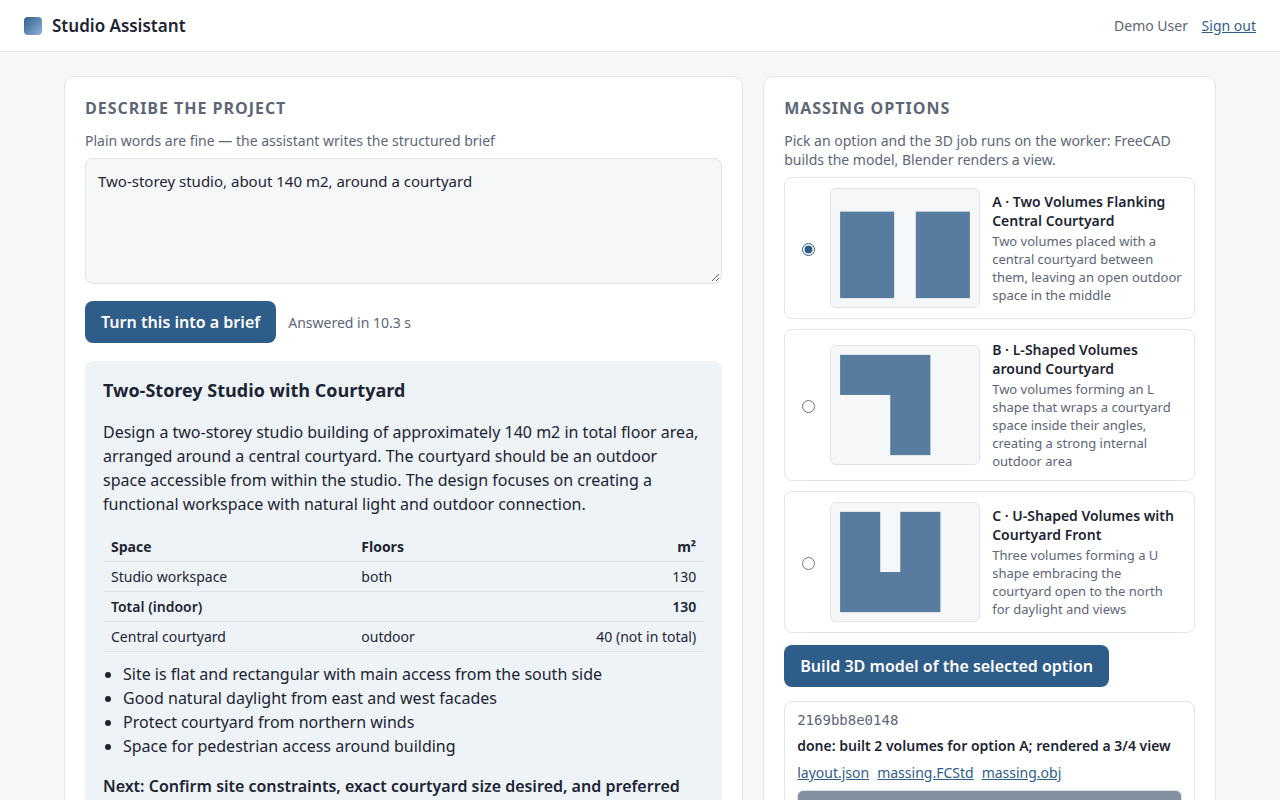
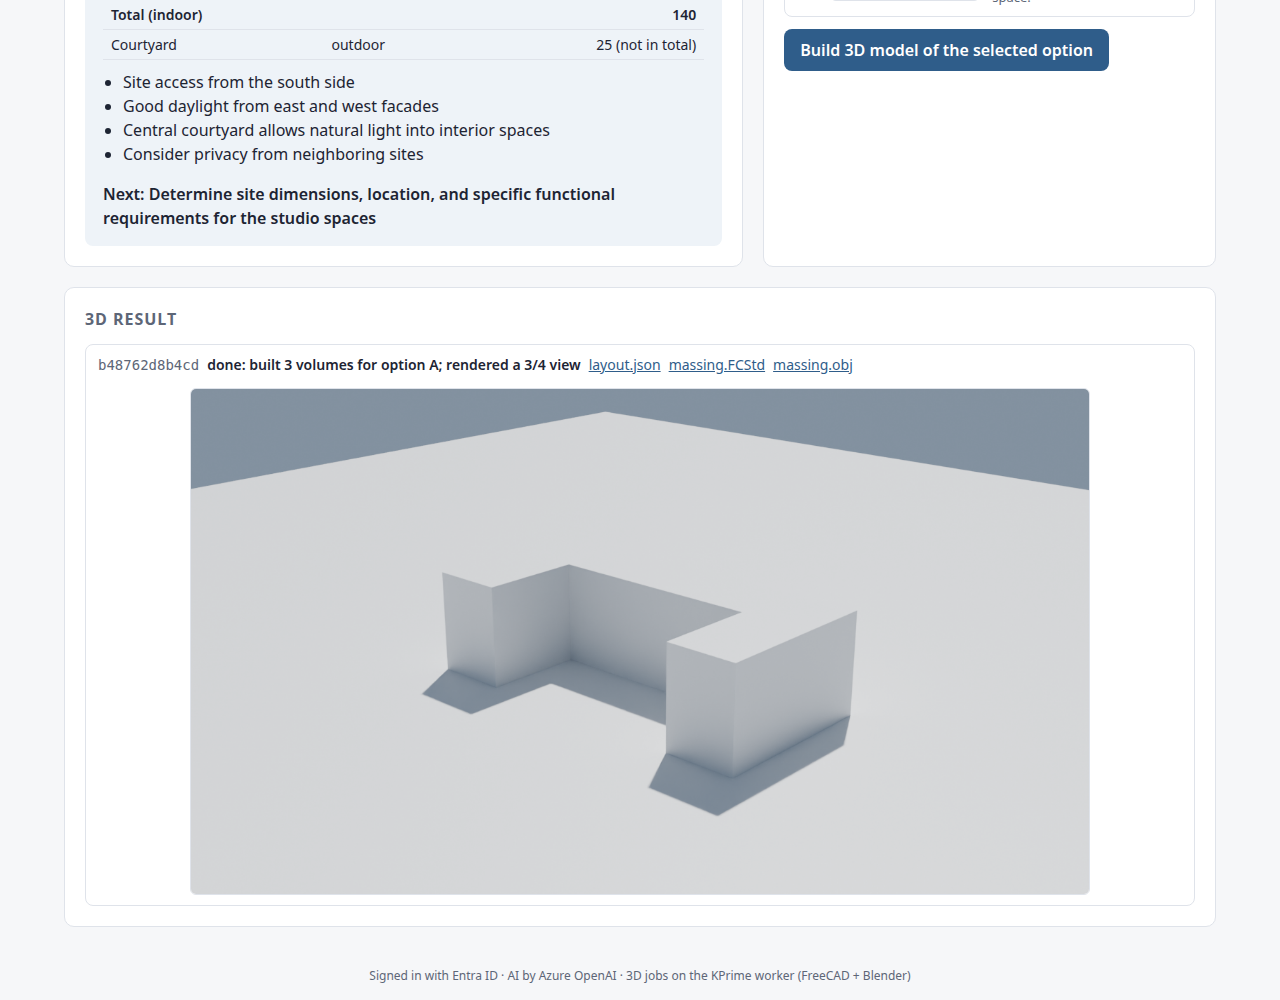
3D result in its own full-width panel under both columns, and the demo GIF re-recorded in a taller window that ends on the large render

diff --git a/app/static/app.js b/app/static/app.js
@@ -129,10 +129,12 @@ $("run-job").addEventListener("click", async () => {
       body: JSON.stringify({ kind: "massing", input: { project: lastAnswer.answer.title || "", option: opt } }),
     });
     const item = el("li", { id: `job-${job.id}` }, el("span", { class: "job-id" }, job.id), el("span", { class: "job-state" }, "queued"));
+    $("results").hidden = false;  // the 3D result has its own panel, shown once there is a job
     $("job-list").prepend(item);
     watch(job.id, item);
   } catch (e) {
     // the error belongs in the jobs panel (ask-state is the assistant's), so the job panel shows it as its own entry
+    $("results").hidden = false;
     $("job-list").prepend(el("li", { class: "job-error" }, el("span", { class: "job-state bad" }, "job not queued"), el("span", {}, e.message)));
   } finally {
     $("run-job").disabled = false;

diff --git a/app/static/style.css b/app/static/style.css
@@ -46,5 +46,9 @@ button:disabled { opacity: .5; cursor: default; }
 .job-state { font-weight: 600; }
 .job-state.bad { color: var(--bad); }
 .job-list img { width: 100%; border-radius: 6px; border: 1px solid var(--line); }
+/* The 3D picture is the point of the tool: its own full-width row under both columns, the picture large and centred */
+.results { grid-column: 1 / -1; }
+.results .job-list li { justify-content: flex-start; }
+.results .job-list img { max-width: 900px; margin: 6px auto 0; display: block; }
 .job-list a { color: var(--accent); }
 .foot { text-align: center; color: var(--muted); font-size: 12px; padding: 16px; }

diff --git a/app/static/index.html b/app/static/index.html
@@ -34,6 +34,10 @@
       <div class="row">
         <button id="run-job" type="button" disabled>Build 3D model of the selected option</button>
       </div>
+    </section>
+
+    <section class="panel results" id="results" hidden>
+      <h2>3D result</h2>
       <ul id="job-list" class="job-list"></ul>
     </section>
   </main>

diff --git a/tests/test_app.py b/tests/test_app.py
@@ -297,3 +297,16 @@ def test_rule_e_bad_flush_pair_has_no_courtyard():
 def test_rule_e_bad_enclosed_text_open_edge():
     got = validate.check(_e(E_BAD_EDGE), E_PROMPT)
     assert any("reaches the outline" in p for p in got), got
+
+
+
+def test_the_3d_result_has_its_own_full_width_panel_under_both_columns(client):
+    """Owner, 2026-11-07: the render sat in the narrow right column below all the options, out of view in the recording."""
+    page = client.get("/").get_data().decode()
+    results = page[page.index('id="results"'):]
+    assert 'id="job-list"' in results and page.index('id="results"') > page.index('id="run-job"')  # after the button, outside the options panel
+    assert "hidden" in page[page.index('id="results"') - 40:page.index('id="results"') + 40]  # shown only once there is a job
+    css = (Path(__file__).resolve().parents[1] / "app" / "static" / "style.css").read_text()
+    assert ".results { grid-column: 1 / -1; }" in css and "max-width: 900px" in css
+    js = (Path(__file__).resolve().parents[1] / "app" / "static" / "app.js").read_text()
+    assert js.count('$("results").hidden = false') == 2  # for a job and for a job that could not be queued
